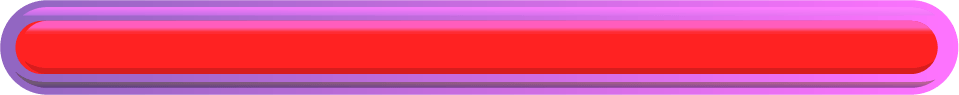
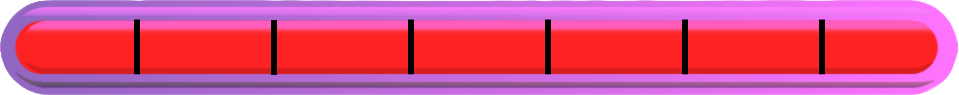
Added black lines in progress bar for the distribution

diff --git a/style.css b/style.css
@@ -264,13 +264,13 @@ body {
   #progress{
     background-image: url("./assets/progress.png");
     background-size: cover;
-    height: 23px;
-    width: 240px;
+    height: 23.75px;
+    width: 242px;
     
     top: 15px;
     left: 555px;
     position: absolute;
-    display: none;
+    /* display: none; */
   }
   
   #pointer{
@@ -322,53 +322,58 @@ body {
   
   #GL{
     background-image: url('./assets/GL.png');
-    height: 12px;
-    width: 36px;
+    height: 14.75px;
+    width: 30px;
     background-size: cover;
     
-    top: 21px;
+    top: 20px;
     left: 559px;
     position: absolute;
-    display: none;
+    /* display: none; */
   }
 
   .GM{
     background-image: url('./assets/GM.png');
-    height: 12px;
-    width: 36px;
+    height: 14.75px;
+    width: 32.75px;
     background-size: cover;
     background-position: top right;
    
-    top: 21px;
-    left: 592px;
+    top: 20px;
+    left: 590.5px;
     position: absolute;
-    display: none;
+    /* display: none; */
 
   }
   #gb{
-    left:624px;
+    left:624.8px;
+    width: 33px;
+    
    
   }
-  #gc{width:34px;
-    left:656px;
+  #gc{
+    left:659.3px;
+    width: 33px;
     
   }
   #gd{
-    left:689px;
+    left:694px;
+    width: 33.3px;
   }
   #ge{
-    left:720px;
+    left:729px;
+    width: 33px;
   }
   #GR{
     background-image: url('./assets/GR.png');
-    height: 12px;
-    width: 36px;
+    height: 14.75px;
+    width: 30px;
     background-size: cover;
     background-position: top right;
-    display: none;
+    /* display: none; */
    
-    top: 21px;
-    left: 756px;
+    top: 20px;
+    left: 763.35px;
     position: absolute;
   }
 

diff --git a/index.js b/index.js
@@ -342,8 +342,19 @@ document.addEventListener("DOMContentLoaded", function () {
         var leftP = getComputedStyle(pointer).left;
 
         var currentLeftP = parseFloat(leftP);
+        var t;
+        if(currentIndex == 0){
+          t = 29.40;
+        }
+        else if(currentIndex == 1 ){
+          t = 33;
+        }
+        else if(currentIndex == 2 || currentIndex == 3||currentIndex == 4||currentIndex == 5||currentIndex == 6){
+          t = 35;
+        }
+        
 
-        var newLeftNumericP = currentLeftP + 32;
+        var newLeftNumericP = currentLeftP + t;
         if(score === 1 && currentIndex == 1){
           
         }

diff --git a/index.html b/index.html
@@ -43,6 +43,8 @@
     <div id="gc" class = "GM"></div>
     <div id="gd" class = "GM"></div>
     <div id="ge" class = "GM"></div>
+
+    
   
 
     <div id="pointer"></div>
